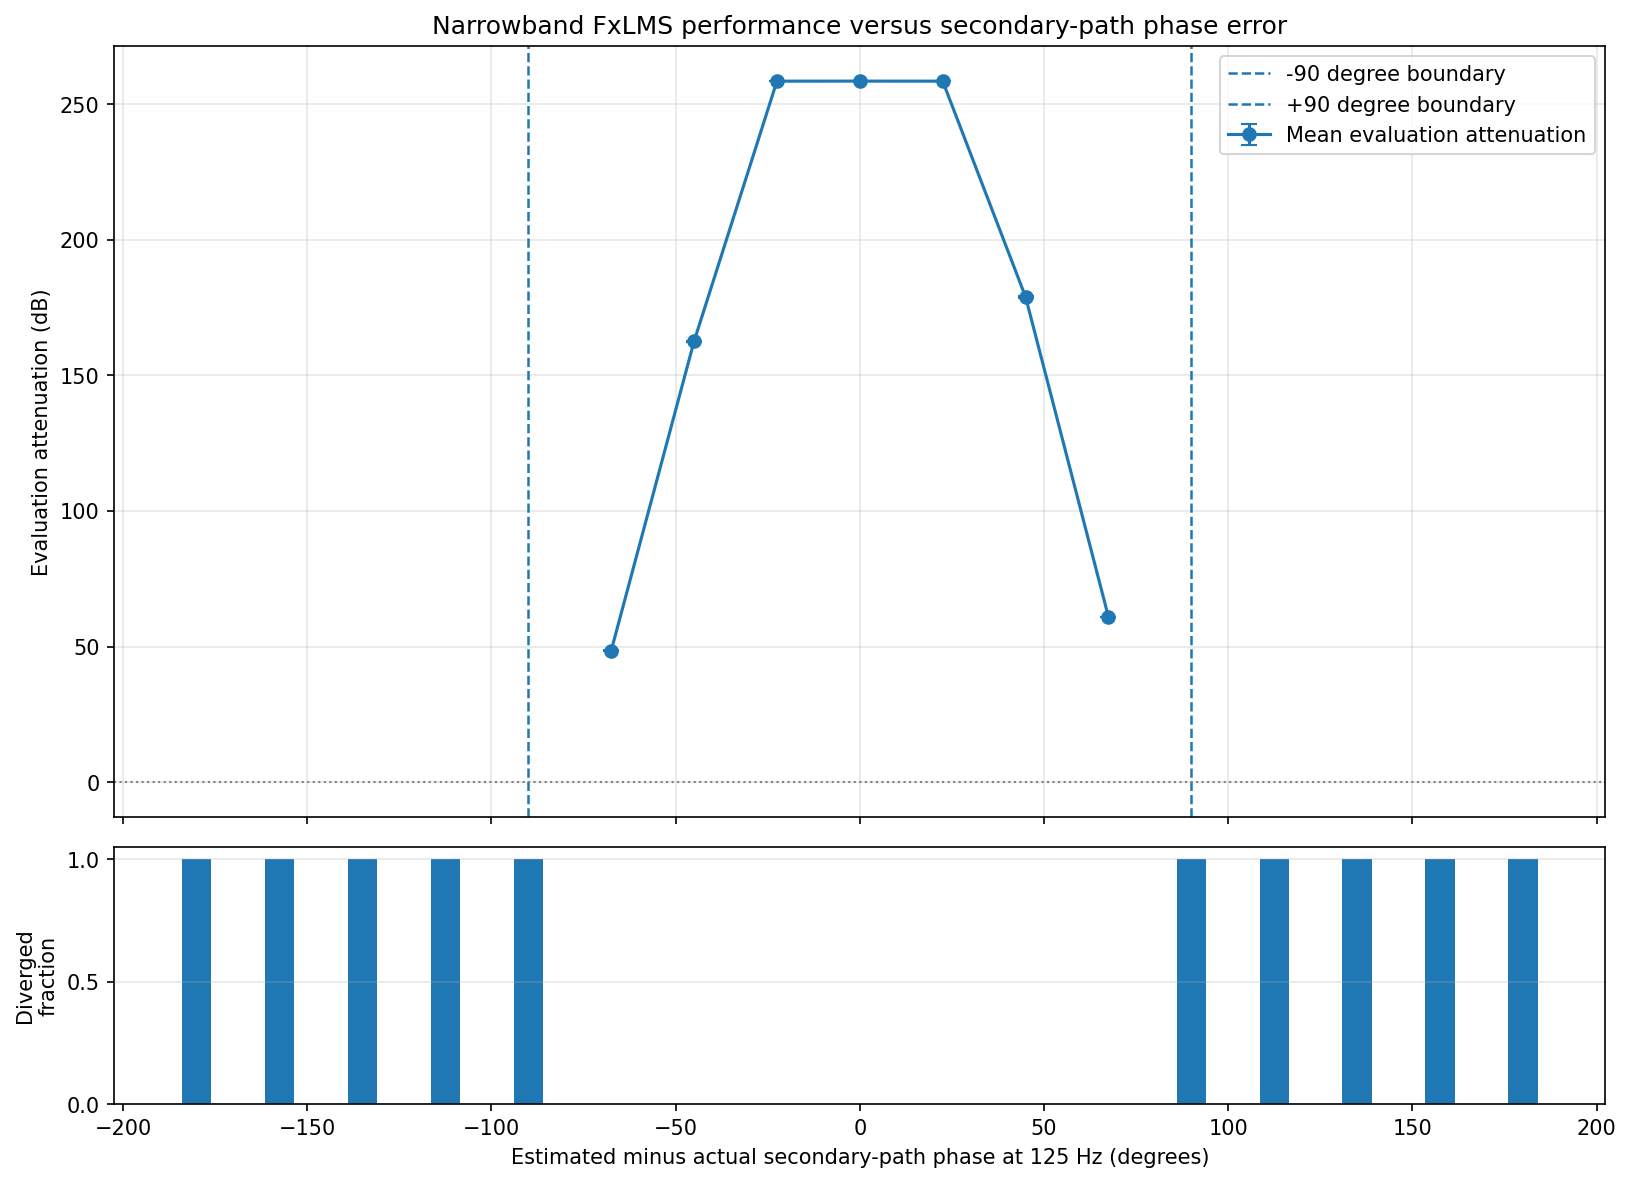
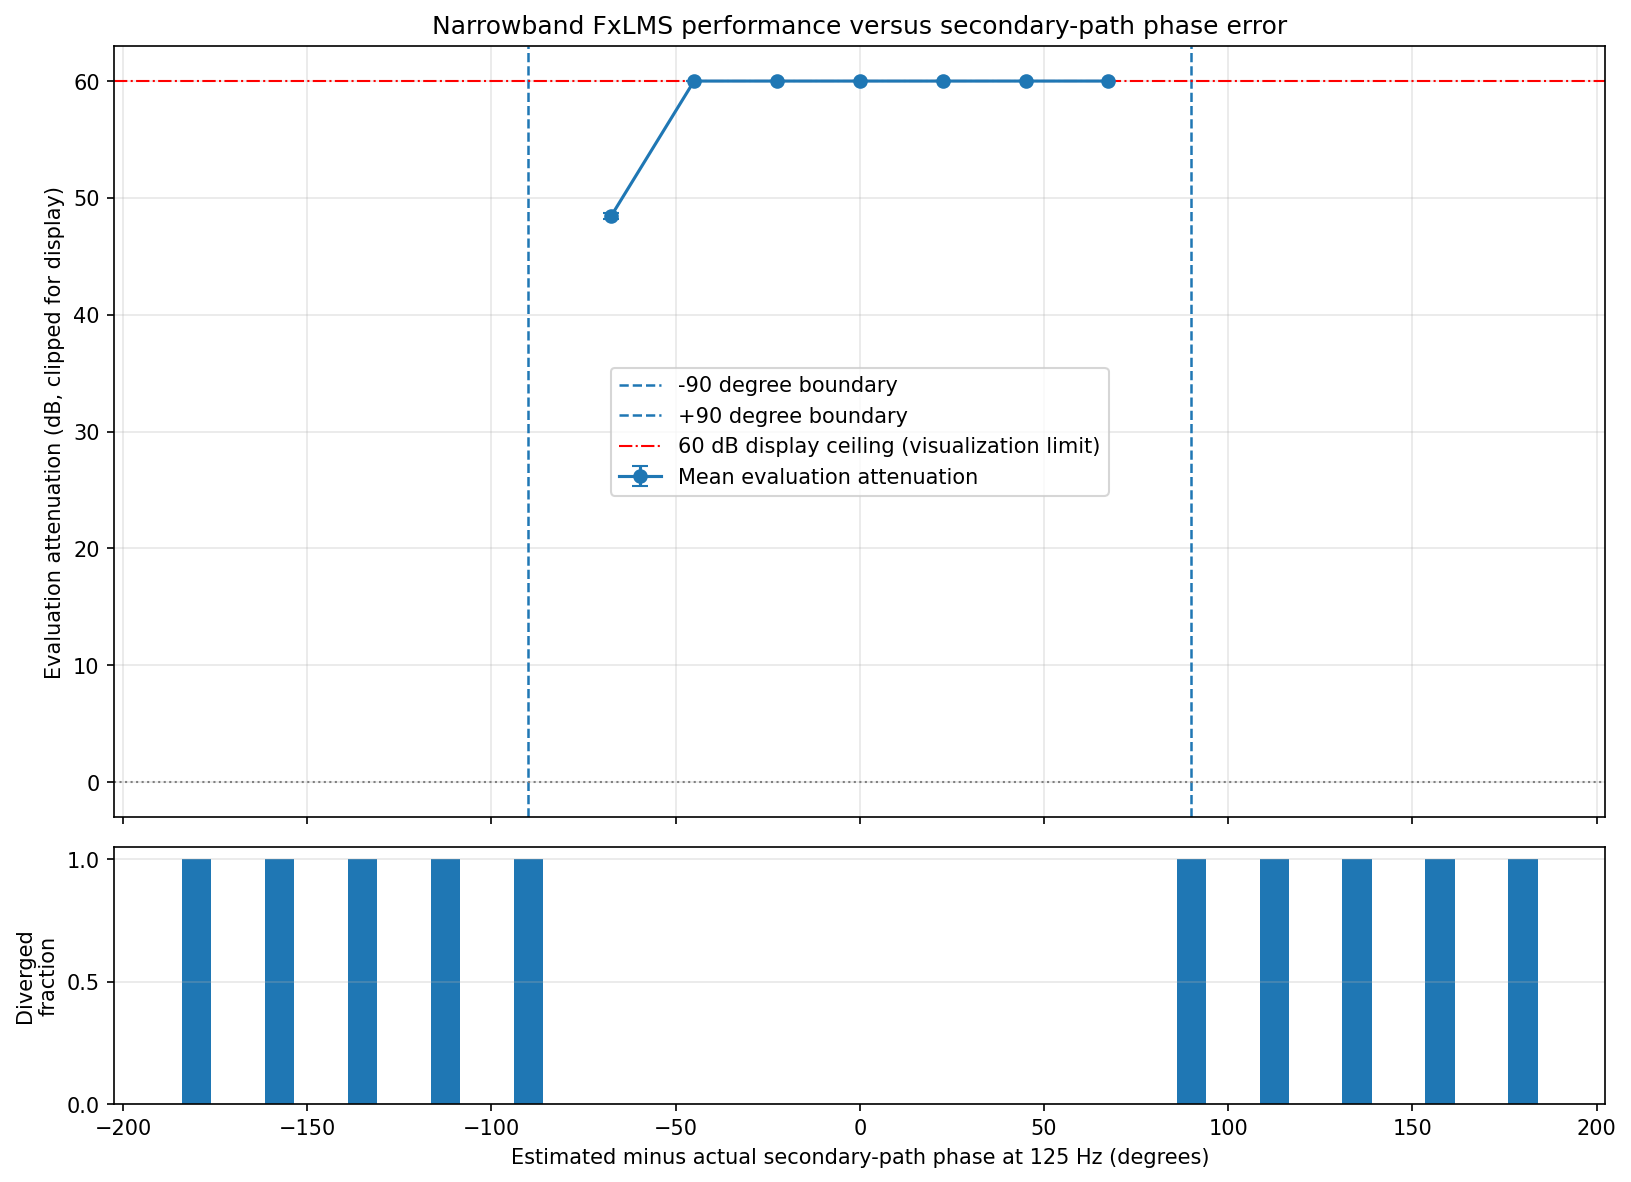
Update step 3 phase-error sweep documentation and implement display ceiling for attenuation values

diff --git a/experiments/step3_phase_error_sweep.py b/experiments/step3_phase_error_sweep.py
@@ -18,6 +18,9 @@ from anc.plant import ANCPlant
 PROJECT_ROOT = Path(__file__).resolve().parents[1]
 
 
+DISPLAY_CEILING_DB = 60.0
+
+
 def resolve_path(path_string: str) -> Path:
     path = Path(path_string)
     if path.is_absolute():
@@ -556,10 +559,27 @@ def main() -> None:
             gridspec_kw={"height_ratios": [3, 1]},
         )
 
+        # Display ceiling only. The simulation is noiseless with a
+        # deterministic tone, so the residual can become arbitrarily small;
+        # values above the ceiling are not physical ANC performance.
+        # CSV and summary keep the unclipped measurements.
+        means_arr = np.asarray(means, dtype=np.float64)
+        stds_arr = np.asarray(stds, dtype=np.float64)
+        plot_means = np.minimum(means_arr, DISPLAY_CEILING_DB)
+        plot_upper = np.minimum(
+            means_arr + stds_arr, DISPLAY_CEILING_DB
+        )
+        plot_lower = np.minimum(
+            means_arr - stds_arr, DISPLAY_CEILING_DB
+        )
+        yerr = np.vstack(
+            (plot_means - plot_lower, plot_upper - plot_means)
+        )
+
         ax1.errorbar(
             phase_errors,
-            means,
-            yerr=stds,
+            plot_means,
+            yerr=yerr,
             marker="o",
             capsize=4,
             linewidth=1.5,
@@ -581,7 +601,19 @@ def main() -> None:
             linewidth=1.0,
         )
 
-        ax1.set_ylabel("Evaluation attenuation (dB)")
+        ax1.axhline(
+            DISPLAY_CEILING_DB,
+            color="red",
+            linestyle="-.",
+            linewidth=1.0,
+            label=(
+                f"{DISPLAY_CEILING_DB:g} dB display ceiling "
+                "(visualization limit)"
+            ),
+        )
+        ax1.set_ylim(top=DISPLAY_CEILING_DB * 1.05)
+
+        ax1.set_ylabel("Evaluation attenuation (dB, clipped for display)")
         ax1.set_title(
             "Narrowband FxLMS performance versus "
             "secondary-path phase error"

diff --git a/README.md b/README.md
@@ -114,6 +114,17 @@ a 0.52 total, which caps the attenuation near 26.5 dB. The fit also redistribute
 noise: the residual PSD is a few dB above the primary PSD between roughly 200
 and 600 Hz.
 
+### Step 3 phase-error sweep: note on large attenuation values
+
+`experiments/step3_phase_error_sweep.py` uses a deterministic sinusoidal
+reference and no sensor noise, so the residual can become extremely small and
+the raw attenuation reaches well above 100 dB. Those numbers are not
+achievable physical ANC performance. The figure
+`docs/figures/step3_phase_error_sweep.png` clips the plotted attenuation at
+60 dB and labels this as a visualization limit. The unclipped measurements
+remain in `results/step3_phase_error_sweep/per_seed_results.csv` for
+reproducibility.
+
 ## C++ port
 
 `cpp/` ports only the controller and the S_hat filter. The plant model stays
